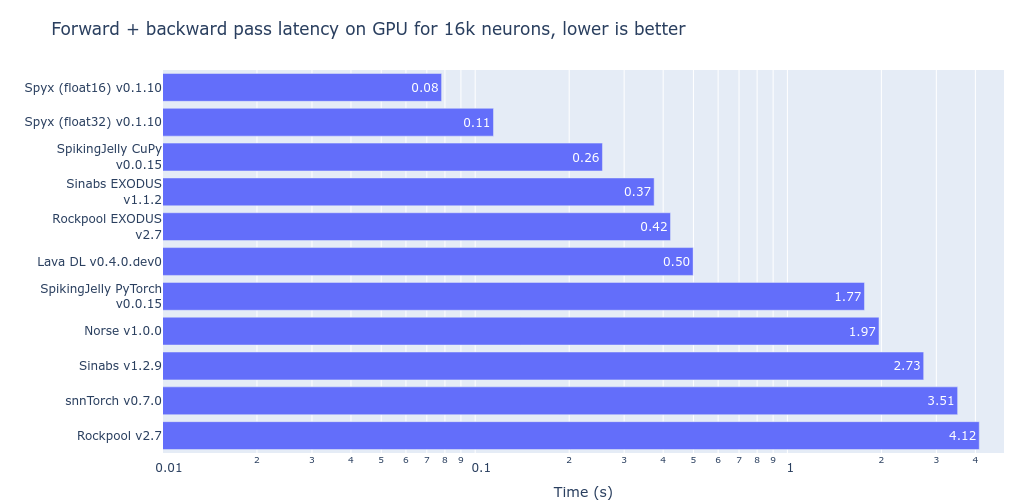
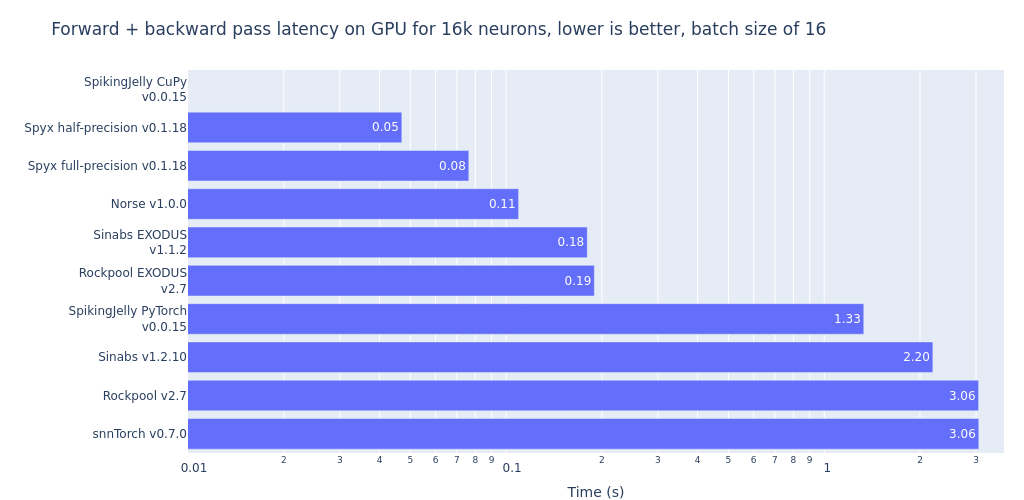
Updated the snn benchmark with torch.compile for Norse

diff --git a/content/english/blog/spiking-neural-network-framework-benchmarking/docker/run_benchmark.py b/content/english/blog/spiking-neural-network-framework-benchmarking/docker/run_benchmark.py
@@ -146,18 +146,25 @@ def norse():
     from torch import nn
 
     torch.cuda.set_per_process_memory_fraction(0.7, device=None)
-    from norse.torch.module.lif import LIF
+    from norse.torch.module import LIFBoxCell, LIFBoxParameters
     from norse.torch import SequentialState
     import norse
 
     benchmark_title = f"Norse<br>v{norse.__version__}"
 
     def prepare_fn(batch_size, n_steps, n_neurons, n_layers, device):
+        p = LIFBoxParameters(
+            tau_mem_inv=torch.tensor([100.0], device="cuda"),
+            v_leak=torch.tensor([0.0], device="cuda"),
+            v_th=torch.tensor([1.0], device="cuda"),
+            v_reset=torch.tensor([0.0], device="cuda"),
+            alpha=torch.tensor([100.0], device="cuda"),
+        )
         model = SequentialState(
             nn.Linear(n_neurons, n_neurons),
-            LIF(),
+            LIFBoxCell(p),
         )
-        # model = torch.compile(model, mode="max-autotune")
+        model = torch.compile(model, mode="reduce-overhead")
         model = model.to(device)
         input_static = torch.randn(n_steps, batch_size, n_neurons).to(device)
         with torch.no_grad():
@@ -166,6 +173,7 @@ def norse():
         return dict(model=model, input=input_static, n_neurons=n_neurons)
 
     def forward_fn(bench_dict):
+        torch.compiler.cudagraph_mark_step_begin()
         model, input_static = bench_dict["model"], bench_dict["input"]
         bench_dict["output"] = model(input_static)[0]
         return bench_dict

diff --git a/content/english/blog/spiking-neural-network-framework-benchmarking/docker/plot.py b/content/english/blog/spiking-neural-network-framework-benchmarking/docker/plot.py
@@ -2,7 +2,7 @@ import pandas as pd
 import os
 import argparse
 
-df = pd.read_csv("../data.csv")
+df = pd.read_csv("data.csv")
 
 os.makedirs("./fig", exist_ok=True)
 

diff --git a/content/english/blog/spiking-neural-network-framework-benchmarking/index.md b/content/english/blog/spiking-neural-network-framework-benchmarking/index.md
@@ -9,6 +9,7 @@ author:
 - "Kade Heckel"
 - "Sumit Bam Shrestha"
 - "Cameron Barker"
+- "Jens Egholm Pedersen"
 image: neurons-race.png
 tags: ["snn", "framework", "library", "pytorch", "JAX"]
 ---
@@ -41,6 +42,8 @@ The ideal library will often depend on a multitude of factors, such as accessibl
 
 **07/11/2023**: Cameron Barker containerised the benchmark suite and added the memory utilisation benchmark. The updated benchmarks were run on a RTX 3090 with a batchsize of 16.
 
+**19/2/2024**: Jens Pedersen updated the benchmark for Norse to use the correct neuron model and `torch.compile`.
+
 ## Code and comments
 The code for this benchmark is available [here](https://github.com/open-neuromorphic/open-neuromorphic.github.io/blob/main/content/english/blog/spiking-neural-network-framework-benchmarking/). The order of dimensions in the input tensor and how it is fed to the respective models differs between libraries.
 Benchmarks were run on a NVIDIA RTX 3090 with 24GB of VRAM. Frameworks use full precision computation unless stated otherwise.
@@ -50,6 +53,7 @@ Some things that would be interesting to add:
 
 * multilayer scalability and benchmarking
 * evaluation of PyTorch frameworks when using torch.compile and with automatic mixed precision
+    * ✔ Done for Norse
 * check that forward dynamics are roughly equal in each case
 * given equivalent forward dynamics, check gradient correlations and magnitudes
 * ✔ memory consumption of different libraries
@@ -60,3 +64,4 @@ Some things that would be interesting to add:
 * [Kade Heckel](https://github.com/kmheckel/spyx) is a Marshall Scholar and a current MPhil student at the Univeristy of Cambridge. He authored the library Spyx as part of the dissertation for an MSc at the University of Sussex under the supervision of Thomas Nowotny.
 * [Sumit Bam Shrestha](https://www.intel.com/content/www/us/en/research/featured-researchers/sumit-bam-shrestha.html) is a research scientist in neuromorphic computing at Intel Labs, where he focuses on deep spiking neural networks.
 * [Cameron Barker](https://github.com/cameron-git) is a Neuromorphic Engineer at Ripga ltd.
+* [Jens Egholm Pedersen](https://jepedersen.dk) is a PhD student at KTH Royal Institute of Technology
